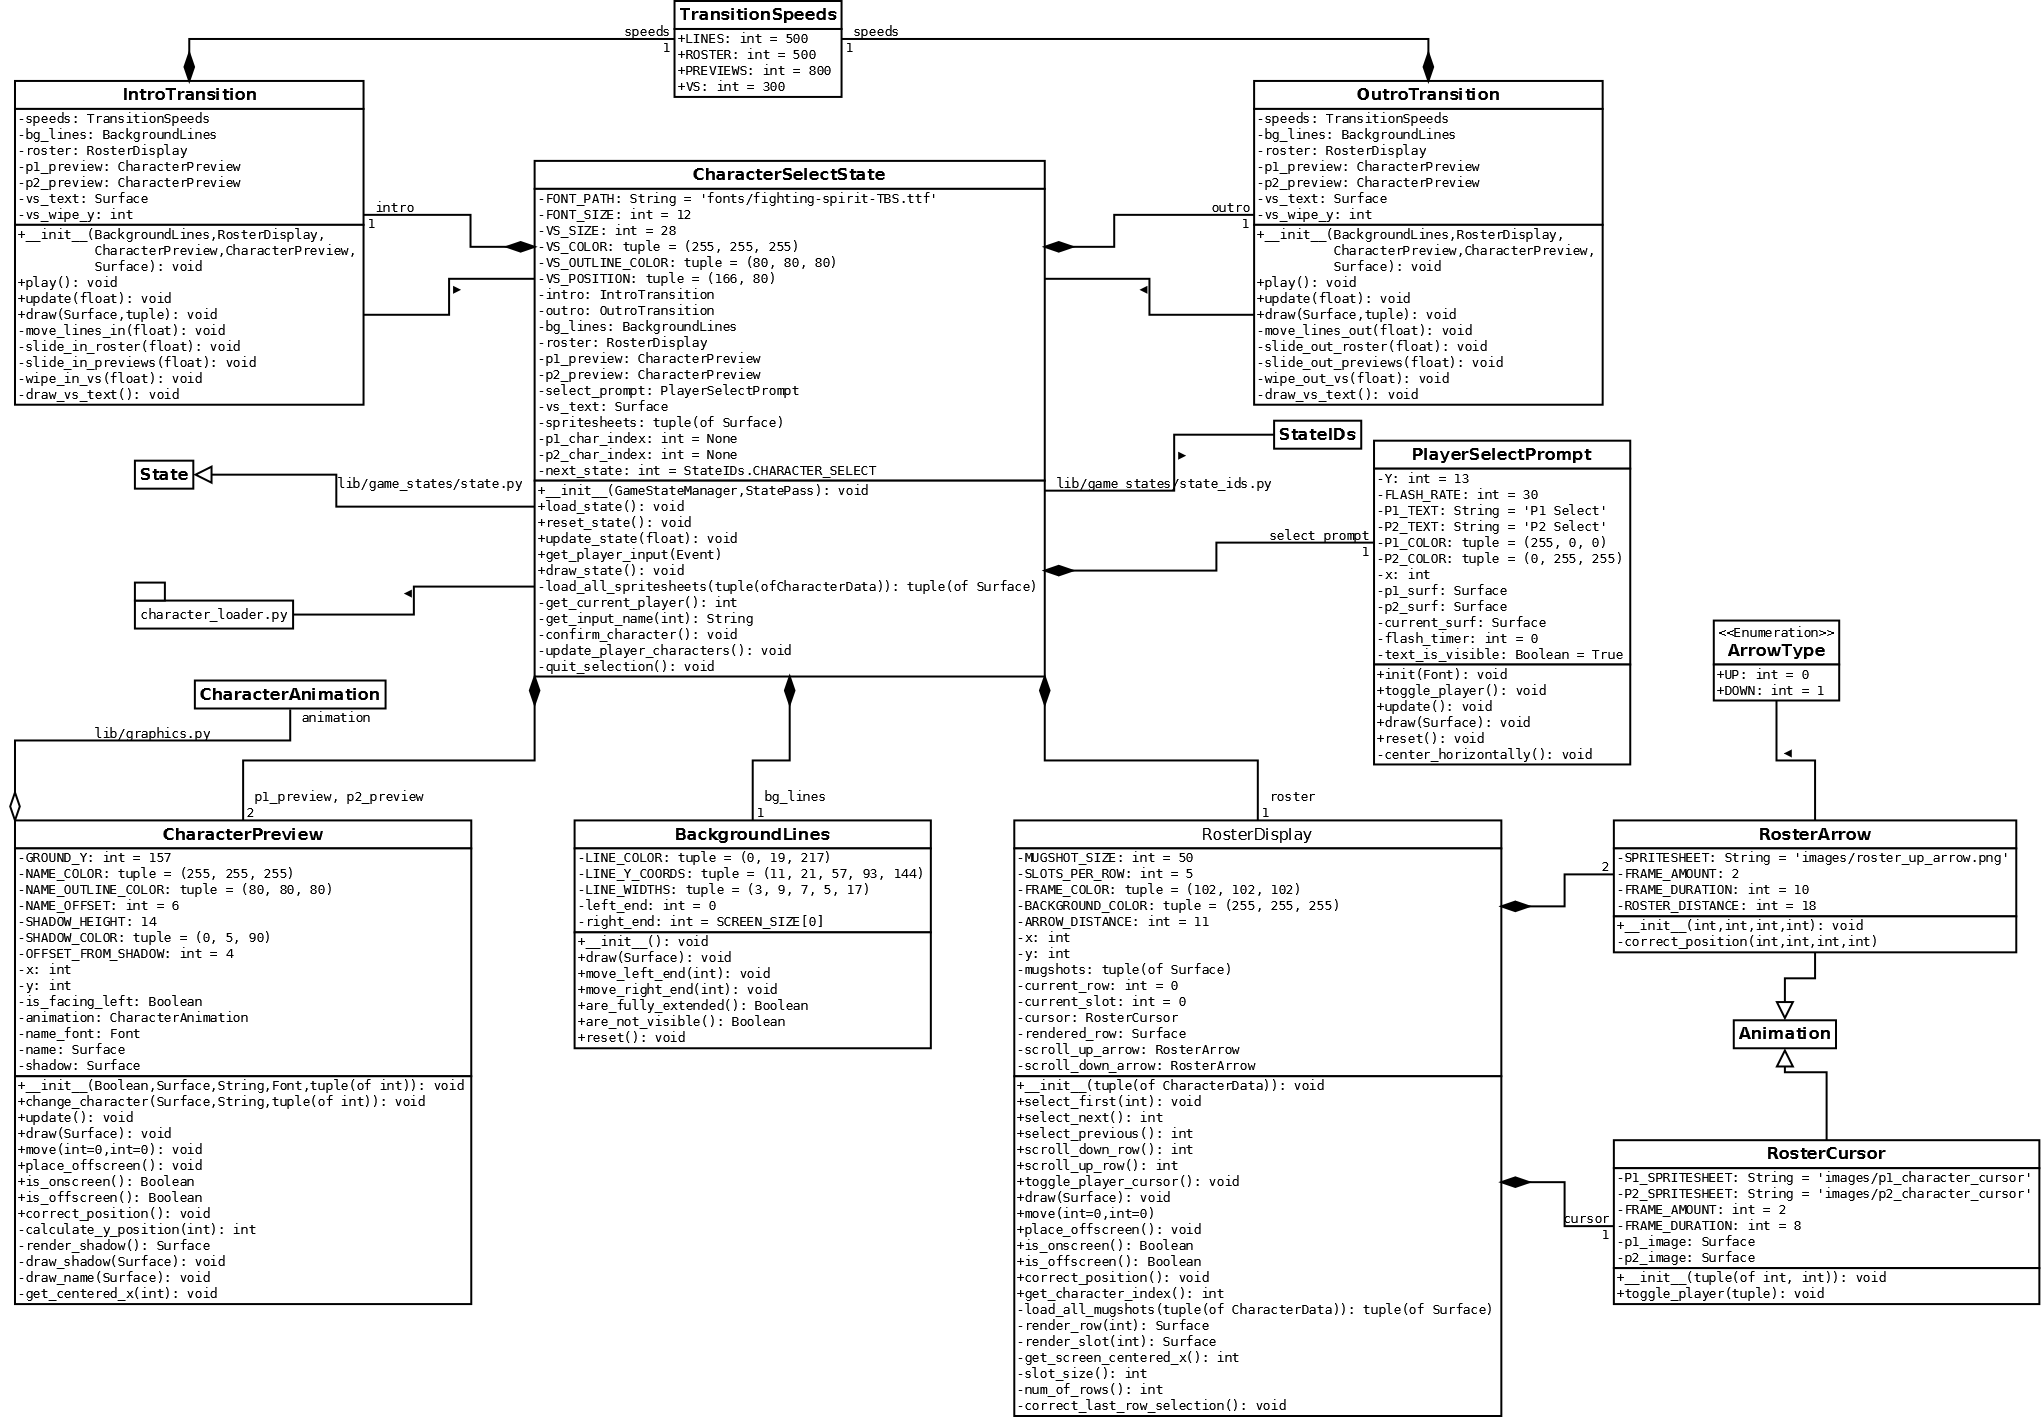
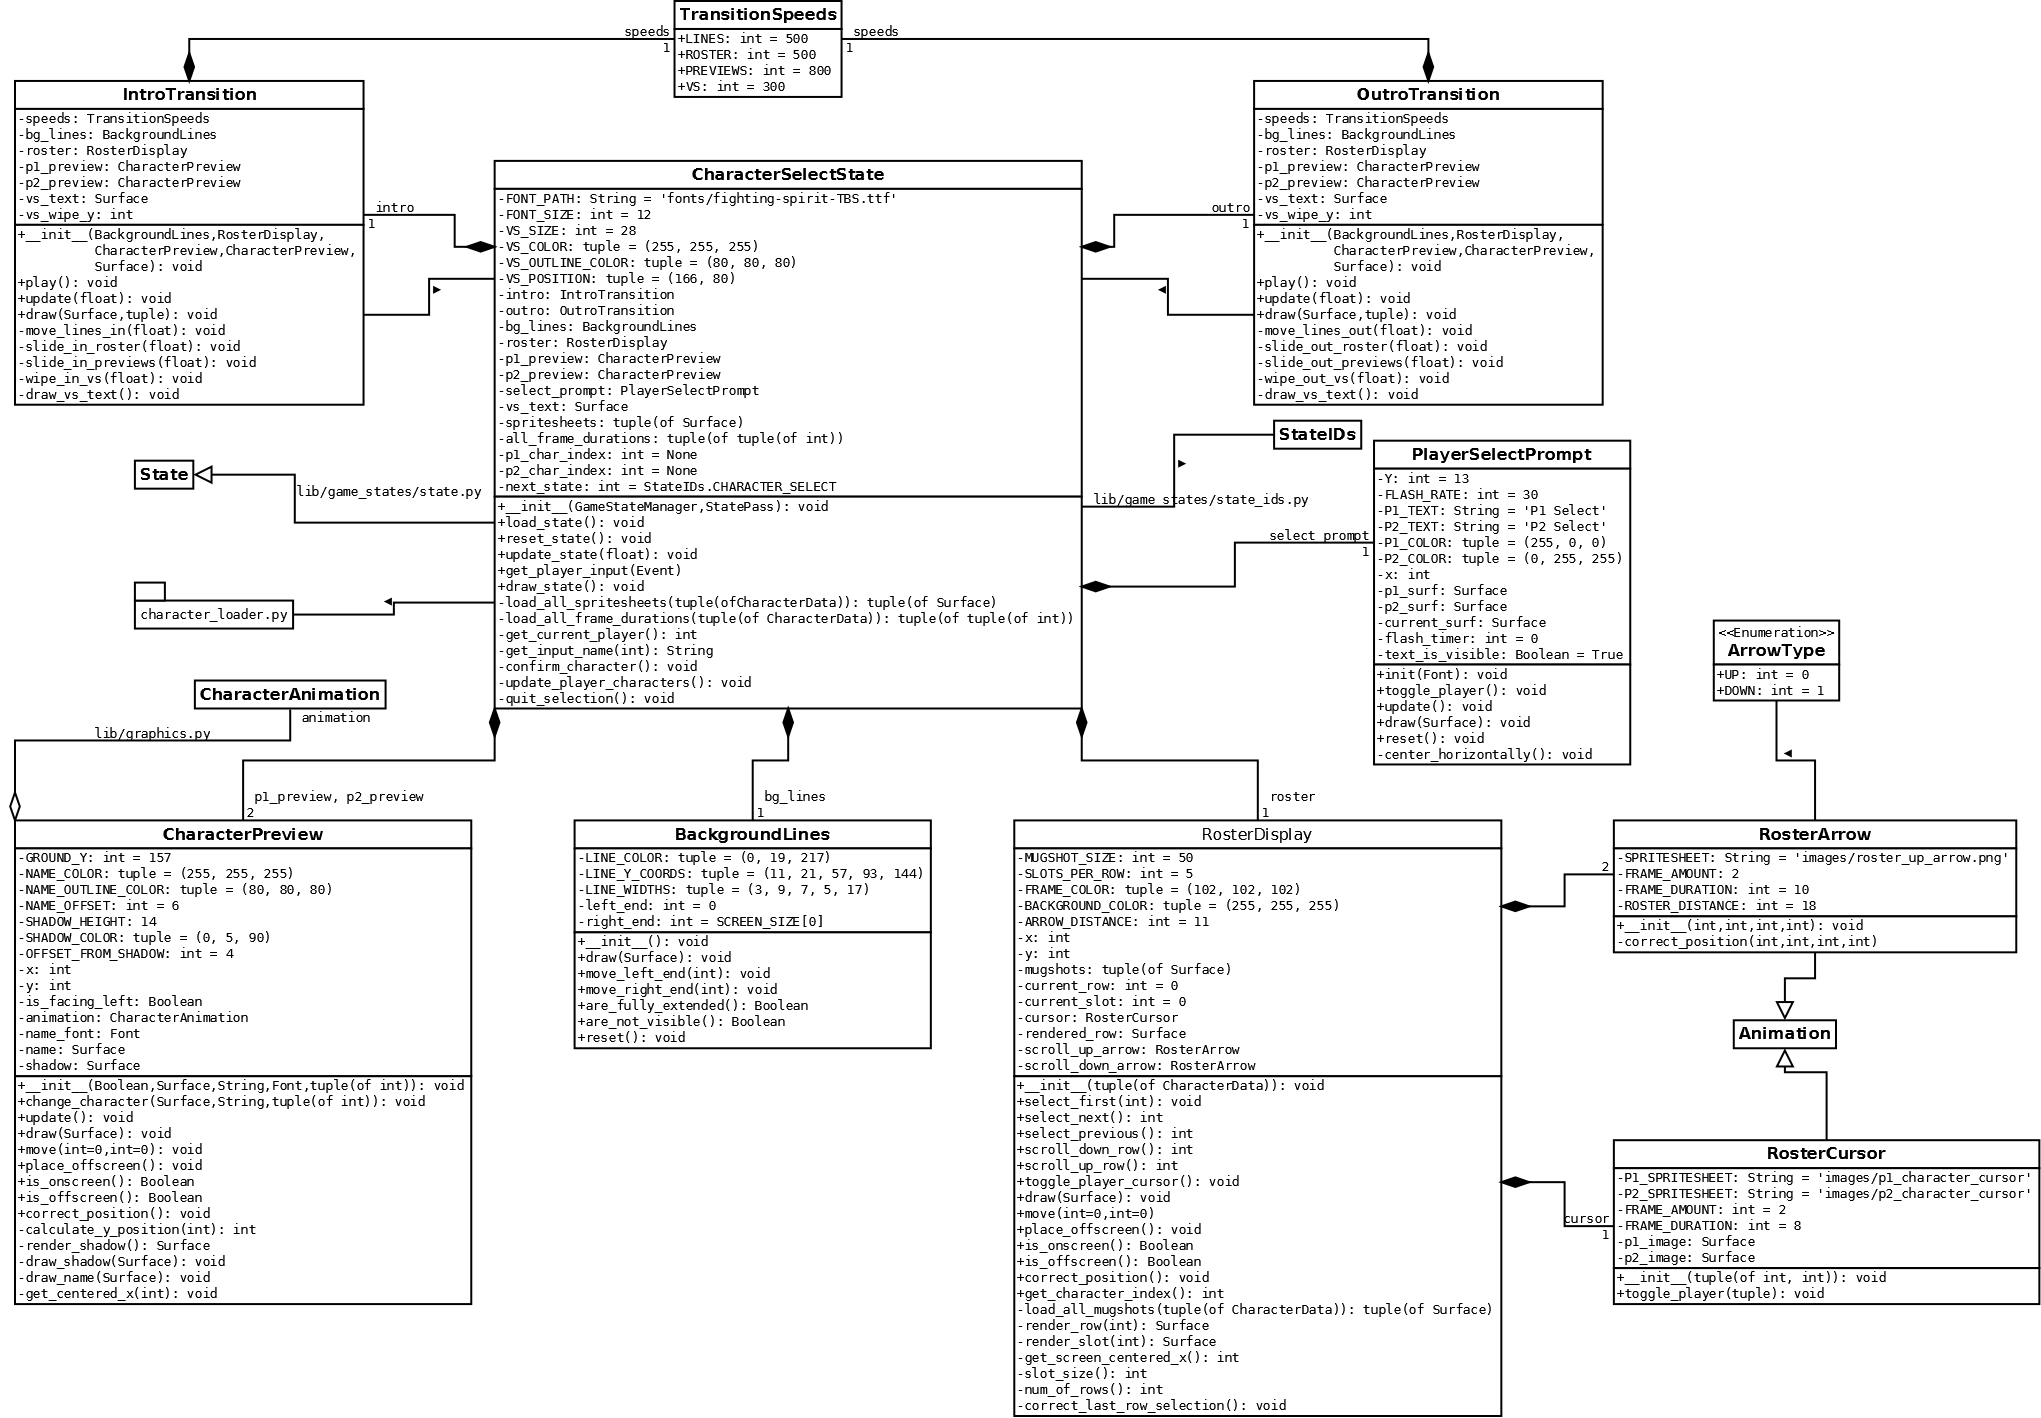
Store all frame durations in CharacterSelectState
Like the spritesheets, this will also need to be known when switching
between preview animations for different characters.

Changed region(s): [[0.1543, 0.1241, 0.6173, 0.5275], [0.4939, 0.1551, 0.5556, 0.1862], [0.5556, 0.1862, 0.5865, 0.2172]]

diff --git a/lib/game_states/character_select_state.py b/lib/game_states/character_select_state.py
@@ -11,6 +11,7 @@ from lib.graphics import convert_to_colorkey_alpha
 from lib.graphics import Animation
 from lib.graphics import CharacterAnimation
 from lib.globals import SCREEN_SIZE
+from lib.custom_data.character_loader import load_all_characters
 from lib.game_states.state import State
 
 
@@ -44,6 +45,9 @@ class CharacterSelectState(State):
             drawn between the two CharacterPreviews.
         spritesheets: A tuple of Surfaces for all of the characters'
             preview animations.
+        all_frame_durations: A tuple containing tuples of ints, for the
+            duration of each frame in all characters' preview
+            animations.
         p1_char_index: An integer for the index of the character
             selected and confirmed by player 1.
         p2_char_index: An integer for the index of the character
@@ -74,6 +78,22 @@ class CharacterSelectState(State):
                 character.action_list[0].spritesheet_path)
 
         return load_tuple_of_images(tuple(spritesheet_paths))
+
+    @staticmethod
+    def load_all_frame_durations(all_chars):
+        """Return a tuple containing tuples of ints, for the duration of
+        each frame within the first Action of all characters.
+        """
+        all_frame_durations = []
+
+        for character in all_chars:
+            frame_durations = []
+            for frame in character.action_list[0].frames:
+                frame_durations.append(frame.duration)
+
+            all_frame_durations.append(tuple(frame_durations))
+
+        return tuple(all_frame_durations)
 
 
 class PlayerSelectPrompt(object):
